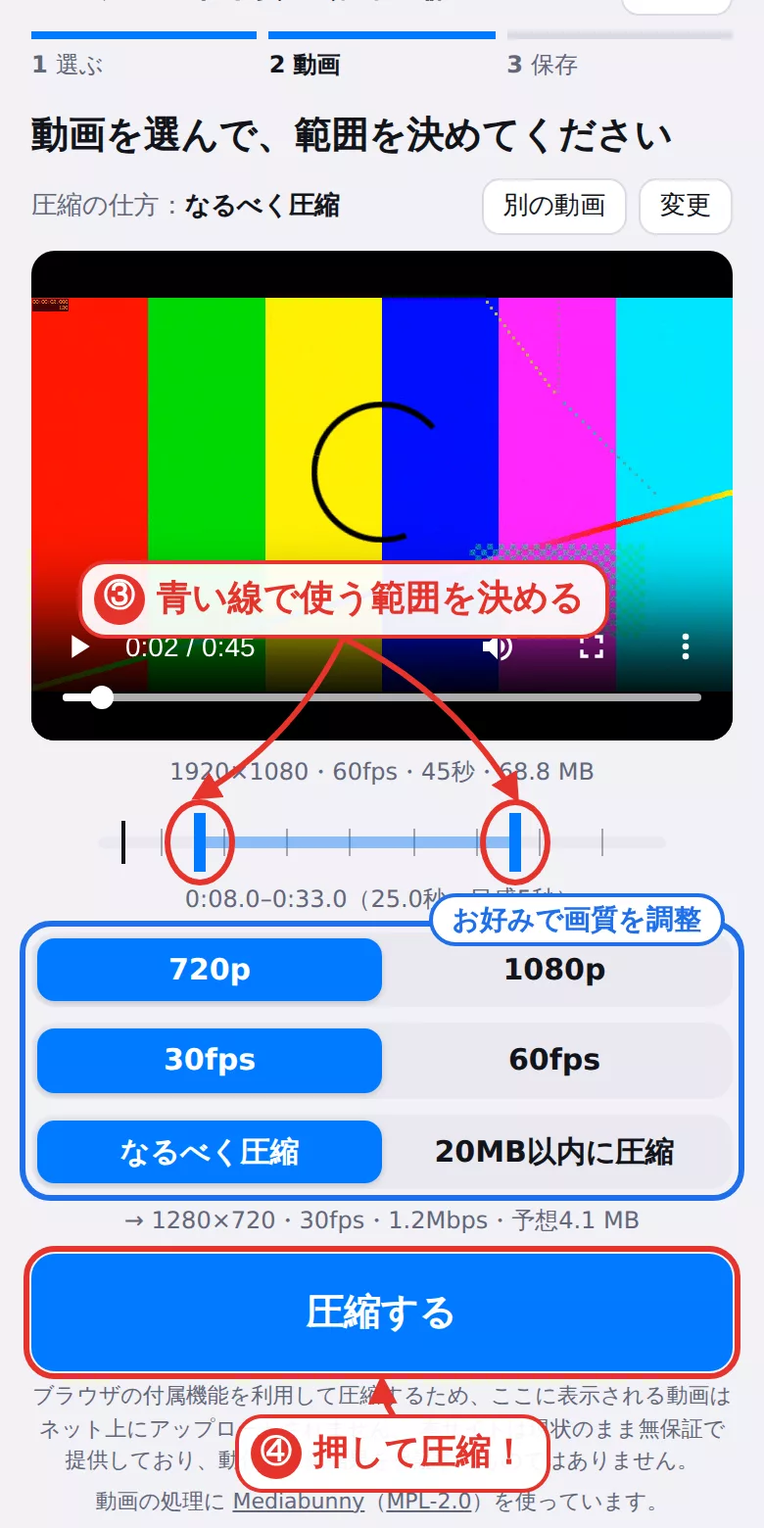
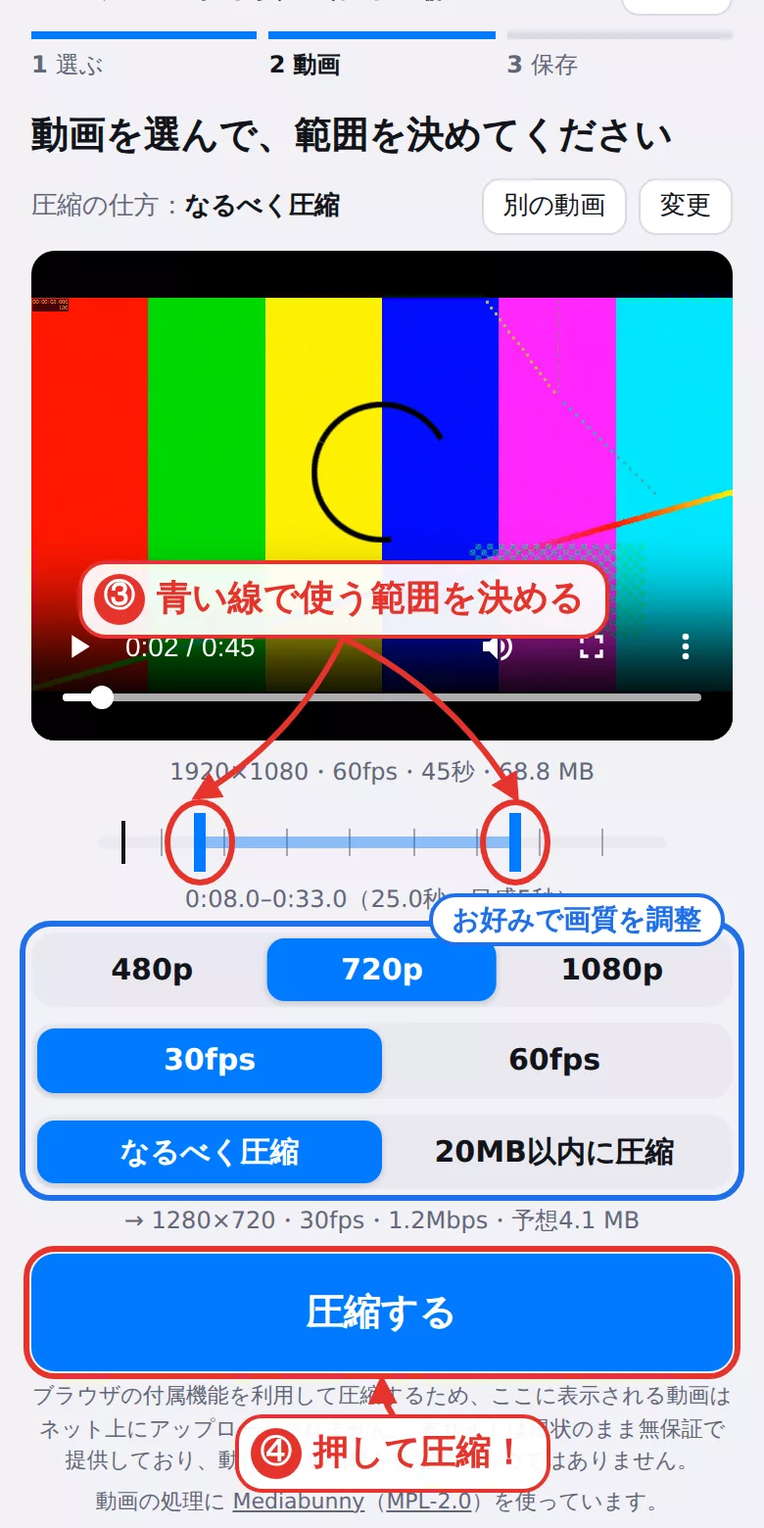
Bring back 480p in step 2; fold the 480p checks into the normal self-test
- Step 2 offers 480p / 720p / 1080p again (aspect kept, 480p floor is
  the 720p floor scaled by pixels).
- Self-test: drop the 3m30s measurement and the own-video 480p button.
  The auto test gains a short "1080p60 -> 480p30" case picked through
  the step-2 switch, and the own-video test adds a 480p run. Videos
  that are not 720p/1080p keep their own size on the new page, so the
  own-video test reports them as a note instead of a failure.

Claude-Session: https://claude.ai/code/session_01Kjx2uZRnB9w1XNEyRL87P8

Changed region(s): [[0.0308, 0.6154, 0.3692, 0.6769], [0.4308, 0.6154, 0.8615, 0.6769], [0.5538, 0.2769, 0.5846, 0.3077]]

diff --git a/public/selftest.js b/public/selftest.js
@@ -31,8 +31,7 @@
     vSmall: { label: '320×240・30fps・3秒', w: 320, h: 240, fps: 30, dur: 3, bitrate: 1e6 },
     vShort: { label: '1280×720・30fps・0.4秒', w: 1280, h: 720, fps: 30, dur: 0.4, bitrate: 6e6 },
     vLong: { label: '1280×720・30fps・1分', w: 1280, h: 720, fps: 30, dur: 60, bitrate: 2e6 },
-    vPre: { label: '1280×720・30fps・30秒', w: 1280, h: 720, fps: 30, dur: 30, bitrate: 6e6 },
-    v480: { label: '1280×720・30fps・3分30秒', w: 1280, h: 720, fps: 30, dur: 210, bitrate: 3e6 }
+    vPre: { label: '1280×720・30fps・30秒', w: 1280, h: 720, fps: 30, dur: 30, bitrate: 6e6 }
   };
   var made = {};   // 作った動画 { file, audio: 'AAC' | 'Opus' | null }
 
@@ -282,6 +281,20 @@
     a.value = String(start); a.dispatchEvent(new w.Event('input'));
   }
 
+  // 新しい画面で、読み込んだ動画の解像度が元のまま固定か（720p・1080p ではない動画）
+  function resFixedInApp() {
+    var seg = appDoc().getElementById('adjResSeg');
+    return !!seg && !!appWin().__compressor.state.meta && seg.classList.contains('hidden');
+  }
+  // 新しい画面の 2 で解像度を選ぶ（その動画だけ）。従来の画面にはないので false を返す
+  function setAdjRes(v) {
+    var el = appDoc().getElementById('adjRes' + v);
+    if (!el) return false;
+    el.checked = true;
+    el.dispatchEvent(new (appWin().Event)('change'));
+    return true;
+  }
+
   function runInApp(timeout) {
     var btn = appDoc().getElementById('runBtn');
     if (btn.disabled) return Promise.resolve();
@@ -330,6 +343,8 @@
     // 目標に収まるので、再エンコードせずに切り出す（範囲の始まりより前はファイルに入るが再生されないので、長さは範囲どおり）
     { title: 'トリミングのみ（再圧縮なし）', video: 'v720', query: 'res=720&mode=size&target=20', trim: [2, 5], expect: { w: 1280, h: 720, trimOnly: true, duration: 3 } },
     { title: '1080p60 → 720p30', video: 'v1080p60', query: 'res=720&mode=quality', expect: { w: 1280, h: 720, fps: 30, audio: true } },
+    // 480p は、新しい画面の 2 の解像度でだけ選べる（縦横比はそのまま、短い辺を480に）
+    { title: '1080p60 → 480p30（2 の解像度で選ぶ）', video: 'v1080p60', query: 'res=720&mode=quality', adjRes: '480', expect: { w: 854, h: 480, fps: 30, audio: true } },
     { title: '1080p60 → 1080p60（fps そのまま）', video: 'v1080p60', query: 'res=1080&mode=quality&fps=source', expect: { w: 1920, h: 1080, fps: 60, audio: true } },
     { title: '縦長 → 720p', video: 'vVert', query: 'res=720&mode=quality', expect: { w: 720, h: 1280, audio: true } },
     { title: '縦長 → 1080p', video: 'vVert', query: 'res=1080&mode=quality', expect: { w: 1080, h: 1920, audio: true } },
@@ -415,6 +430,11 @@
     // テスト用の動画の音声をアプリが読めないなら、アプリではなくテスト用の動画の問題
     var badSource = source.audio && s.meta.audio && s.meta.audio.canDecode === false;
     if (c.trim) setTrim(c.trim[0], c.trim[1]);
+    if (c.adjRes && !setAdjRes(c.adjRes)) {
+      r.status = 'warn';
+      r.detail = '従来の画面では ' + c.adjRes + 'p を選べない（試せなかった）';
+      return;
+    }
     if (c.compat) s.engine = 'compat';   // 互換モードを試す（画面からは選べない）
     var t0 = Date.now();
     if (!c.noRun) await runInApp(COMPRESS_TIMEOUT_MS);
@@ -451,7 +471,7 @@
   }
 
   function setBusy(busy) {
-    ['autoBtn', 'switchBtn', 'preBtn', 'easyBtn', 'res480Btn', 'file480Btn', 'fileBtn'].forEach(function (id) { $(id).disabled = busy; });
+    ['autoBtn', 'switchBtn', 'preBtn', 'easyBtn', 'fileBtn'].forEach(function (id) { $(id).disabled = busy; });
   }
 
   async function runAll(list, getSource) {
@@ -543,7 +563,8 @@
       var source = { file: file, audio: null, label: '手元の動画 ' + fmtMB(file.size) };
       var list = [
         { title: '手元の動画 → 720p', query: 'res=720&mode=quality', limit: 720 },
-        { title: '手元の動画 → 1080p', query: 'res=1080&mode=quality', limit: 1080 }
+        { title: '手元の動画 → 1080p', query: 'res=1080&mode=quality', limit: 1080 },
+        { title: '手元の動画 → 480p（2 の解像度で選ぶ）', query: 'res=720&mode=quality', limit: 480, adjRes: '480' }
       ];
       var rows = list.map(function (c) { return addResult(c.title); });
       for (var i = 0; i < list.length; i++) {
@@ -554,15 +575,24 @@
           if (!s) continue;
           var meta = s.meta;
           r.title = c.title + '（元: ' + meta.width + '×' + meta.height + '・' + (meta.codecString || meta.videoCodec) + (meta.hdr ? '・HDR' : '') + '・' + fmtMB(file.size) + '）';
+          // 新しい画面では、720p・1080p ではない動画は元の解像度のまま（解像度は選べない）
+          var fixed = resFixedInApp();
+          if (c.adjRes && !fixed && !setAdjRes(c.adjRes)) {
+            r.status = 'warn';
+            r.detail = '従来の画面では ' + c.adjRes + 'p を選べない（試せなかった）';
+            render();
+            continue;
+          }
           await runInApp(COMPRESS_TIMEOUT_MS);
           var problems = [], warns = [];
+          if (fixed) warns.push('720p・1080pではない動画なので、元の解像度のまま圧縮した（' + c.limit + 'p は試せなかった）');
           if (!s.out) problems.push('圧縮できない: ' + (appText('outWarn') || appText('planWarn')));
           else {
             var info = await inspect(s.out.blob);
             r.detail = describe(info);
             var srcShort = Math.min(meta.width, meta.height), outShort = Math.min(info.w, info.h);
             if ((meta.width >= meta.height) !== (info.w >= info.h)) problems.push('縦横が変わった');
-            if (outShort > Math.min(srcShort, c.limit) + 2) problems.push('解像度が大きすぎる');
+            if (outShort > Math.min(srcShort, fixed ? srcShort : c.limit) + 2) problems.push('解像度が大きすぎる');
             if (meta.audio && meta.audio.canDecode !== false && !info.audio && !s.out.original) warns.push('音声が消えた');
             if (usedCompat(s)) warns.push('互換モードで処理した');
           }
@@ -1143,176 +1173,6 @@
         render();
       }
       setStatus('新しい画面のテストが終わりました');
-    } finally {
-      render();
-      setBusy(false);
-    }
-  });
-
-  // ---------------------------------------------------------------- 480p の効果（3分30秒・手元の動画が20MBに収まるか）
-  // アプリは 480p を選べないので、アプリと同じエンコーダーの設定（ハードウェアの VBR → ハードウェアの CBR → ブラウザに任せる VBR、
-  // キーフレーム2秒ごと）で、このページから直接圧縮して比べる。縦横比はそのまま、短い辺を 720・480 にする（元より大きくはしない）。
-  // 60fps などの動画は 30fps にする（「なるべく圧縮」と同じ）。
-  // 480p の指定ビットレートは、720p の指定ビットレート（1200kbps）を画素数に比例させた値（1200 × 4/9 ≒ 533kbps）
-  var RES480_CASES = [
-    { title: '720p・30fps・1200kbps（今の「なるべく圧縮」）', short: 720, bps: 1200000 },
-    { title: '480p・30fps・533kbps', short: 480, bps: 533000 }
-  ];
-  function even(v) { return Math.max(2, Math.round(v / 2) * 2); }
-  async function pickEncoder(w, h, bps) {
-    var order = [['prefer-hardware', 'variable'], ['prefer-hardware', 'constant'], ['no-preference', 'variable']];
-    for (var i = 0; i < order.length; i++) {
-      var ok = await M.canEncodeVideo('avc', { width: w, height: h, frameRate: 30,
-        quality: new M.Quality({ bitrate: bps, bitrateMode: order[i][1] }), hardwareAcceleration: order[i][0] }).catch(function () { return false; });
-      if (ok) return { hw: order[i][0], mode: order[i][1] };
-    }
-    return null;
-  }
-  // 元の動画の大きさ・fps・音声
-  async function probeSource(file) {
-    var input = new M.Input({ source: new M.BlobSource(file), formats: [M.MP4, M.QTFF] });
-    try {
-      var v = await input.getPrimaryVideoTrack();
-      if (!v) throw new Error('映像がありません');
-      var a = await input.getPrimaryAudioTrack();
-      var fps = null;
-      try { fps = (await v.computePacketStats(120)).averagePacketRate; } catch (e) { fps = null; }
-      return { w: v.displayWidth, h: v.displayHeight, fps: fps, audio: a ? a.codec : null, duration: await input.computeDuration() };
-    } finally {
-      try { input.dispose(); } catch (e) { /* noop */ }
-    }
-  }
-  async function encodeDirect(file, src, c, onProgress) {
-    var scale = Math.min(1, c.short / Math.min(src.w, src.h));
-    var w = even(src.w * scale), h = even(src.h * scale);
-    var enc = await pickEncoder(w, h, c.bps);
-    if (!enc) throw new Error('この端末では ' + w + '×' + h + ' の H.264 で書き出せません');
-    var input = new M.Input({ source: new M.BlobSource(file), formats: [M.MP4, M.QTFF] });
-    var output = new M.Output({ format: new M.Mp4OutputFormat({ fastStart: 'in-memory' }), target: new M.BufferTarget() });
-    var aacOk = await M.canEncodeAudio('aac', { numberOfChannels: 2, sampleRate: 48000, bitrate: 128000 }).catch(function () { return false; });
-    // 音声はアプリと同じく、AAC ならそのまま、そうでなければ AAC（128kbps）にする（できなければ音声なし）
-    var audio = src.audio === 'aac' ? { codec: 'aac' } : src.audio && aacOk ? { codec: 'aac', quality: new M.Quality({ bitrate: 128000 }), forceTranscode: true } : { discard: true };
-    var video = { codec: 'avc', width: w, height: h, fit: 'fill', quality: new M.Quality({ bitrate: c.bps, bitrateMode: enc.mode }),
-      hardwareAcceleration: enc.hw, keyFrameInterval: 2, forceTranscode: true, allowTransformationMetadata: false };
-    if (src.fps && src.fps > 40) video.frameRate = src.fps / 2;
-    try {
-      var conv = await M.Conversion.init({ input: input, output: output, video: video, audio: audio });
-      if (!conv.isValid) throw new Error('変換できません');
-      conv.onProgress = onProgress;
-      var t0 = Date.now();
-      await conv.execute();
-      return { blob: new Blob([output.target.buffer], { type: 'video/mp4' }), enc: enc, sec: (Date.now() - t0) / 1000, w: w, h: h };
-    } finally {
-      try { input.dispose(); } catch (e) { /* noop */ }
-    }
-  }
-  // 書き出した動画の音声のビットレート（測れなければ 128kbps とみる）
-  async function audioRateOf(blob) {
-    var input = new M.Input({ source: new M.BlobSource(blob), formats: [M.MP4, M.QTFF] });
-    try {
-      var a = await input.getPrimaryAudioTrack();
-      var bps = a ? (await a.computePacketStats()).averageBitrate : 0;
-      return bps > 0 ? bps : 128000;
-    } catch (e) {
-      return 128000;
-    } finally {
-      try { input.dispose(); } catch (e) { /* noop */ }
-    }
-  }
-  // 720p と 480p で圧縮して比べる。label … 結果の見出しに付ける元の動画の説明
-  async function run480(file, label, prefix) {
-    var rows = RES480_CASES.map(function (c) { return addResult(prefix + c.title + '（元: ' + label + '）'); });
-    var summary = addResult(prefix + '480p・30fps で20MBに収まり、720p より小さくなる');
-    var sizes = [], src;
-    try {
-      src = await probeSource(file);
-    } catch (e) {
-      rows.concat(summary).forEach(function (r) { r.status = 'ng'; r.detail = '読み込めない: ' + errorDetail(e); });
-      render();
-      return;
-    }
-    for (var i = 0; i < RES480_CASES.length; i++) {
-      var c = RES480_CASES[i], r = rows[i];
-      r.status = 'run';
-      render();
-      try {
-        var res = await encodeDirect(file, src, c, function (p) { setStatus('480p の効果を測っています ' + (i + 1) + '/' + RES480_CASES.length + '：' + c.title + ' … ' + Math.round(p * 100) + '%'); });
-        var info = await inspect(res.blob);
-        var audioBps = info.audio ? await audioRateOf(res.blob) : 0;
-        var videoBps = Math.max(0, info.size * 8 / info.duration - audioBps);
-        sizes[i] = { size: info.size, videoBps: videoBps, audioBps: audioBps, duration: info.duration };
-        r.detail = describe(info) + '・映像 約' + Math.round(videoBps / 1000) + 'kbps（指定 ' + c.bps / 1000 + 'kbps）・' + res.sec.toFixed(1) + '秒で完了・' +
-          (res.enc.hw === 'prefer-hardware' ? 'ハードウェア' : 'ブラウザ任せ') + '/' + (res.enc.mode === 'variable' ? 'VBR' : 'CBR');
-        r.status = 'ok';
-        if (info.w !== res.w || info.h !== res.h) { r.status = 'ng'; r.detail = '解像度が ' + info.w + '×' + info.h + '（正しくは ' + res.w + '×' + res.h + '）（' + r.detail + '）'; }
-        else if (videoBps > c.bps * 1.3) { r.status = 'warn'; r.detail = 'エンコーダーが指定より大きく書き出した（' + r.detail + '）'; }
-      } catch (e) {
-        r.status = 'ng';
-        r.detail = errorDetail(e);
-      }
-      render();
-    }
-    if (sizes[0] && sizes[1]) {
-      var fits = sizes[1].size < 20 * MB;
-      var ratio = sizes[1].size / sizes[0].size;
-      var fitSec = function (x) { return Math.floor(20 * MB * 0.97 * 8 / (x.videoBps + x.audioBps)); };
-      summary.status = fits && ratio < 0.8 ? 'ok' : fits ? 'warn' : 'ng';
-      summary.detail = '480p ' + fmtMB(sizes[1].size) + (fits ? '（20MBに収まる）' : '（20MBを超えた）') + '・720p ' + fmtMB(sizes[0].size) +
-        '・720p の ' + Math.round(ratio * 100) + '%' + (ratio < 0.8 ? '' : '（480p にしてもあまり小さくならない）') +
-        '・この動画の中身なら 20MB に収まるのは 480p で約' + fitSec(sizes[1]) + '秒・720p で約' + fitSec(sizes[0]) + '秒まで';
-    } else {
-      summary.status = 'ng';
-      summary.detail = '比べられなかった（上の失敗を見てください）';
-    }
-    render();
-  }
-
-  $('res480Btn').addEventListener('click', async function () {
-    setBusy(true);
-    setNotice('');
-    try {
-      var source;
-      try {
-        source = await makeVideo('v480');
-      } catch (e) {
-        fail(addResult('480p の効果: テスト用の動画を作る'), errorDetail(e));
-        render();
-        return;
-      }
-      await run480(source.file, source.label + (source.audio ? '・' + source.audio : '・音声なし'), '480p の効果: ');
-      setStatus('480p の効果を測り終わりました');
-    } finally {
-      render();
-      setBusy(false);
-    }
-  });
-
-  // 手元の動画で 480p の効果を測る（Android では、選んだ動画をこのページで読み込んでから使う。「手元の動画でも試す」と同じ）
-  $('file480Btn').addEventListener('click', function () { $('file480').click(); });
-  $('file480').addEventListener('change', async function (ev) {
-    var picked = ev.target.files && ev.target.files[0];
-    ev.target.value = '';
-    if (!picked) return;
-    setBusy(true);
-    setNotice('');
-    try {
-      var file;
-      try {
-        setStatus('選んだ動画を読み込んでいます…');
-        file = new File([await picked.arrayBuffer()], picked.name, { type: picked.type || 'video/mp4', lastModified: picked.lastModified });
-      } catch (e) {
-        fail(addResult('手元の動画で 480p: 動画を読み込む'), '読み込めない: ' + errorDetail(e));
-        render();
-        return;
-      }
-      var label = '手元の動画 ' + fmtMB(file.size);
-      try {
-        var src = await probeSource(file);
-        label = '手元の動画 ' + src.w + '×' + src.h + '・' + (src.fps ? Math.round(src.fps) + 'fps' : 'fps不明') + '・' +
-          Math.round(src.duration) + '秒・' + fmtMB(file.size) + '・音声' + (src.audio ? '（' + src.audio + '）' : 'なし');
-      } catch (e) { /* 読めなければ run480 で失敗として書く */ }
-      await run480(file, label, '手元の動画で 480p: ');
-      setStatus('手元の動画で 480p の効果を測り終わりました');
     } finally {
       render();
       setBusy(false);

diff --git a/public/app.js b/public/app.js
@@ -57,7 +57,7 @@
   var KEYFRAME_INTERVAL = 2;             // 秒
   var MIN_TRIM_LENGTH = 0.5;             // 秒
   var AUDIO_DECODE_MAX_BYTES = 400 * MB;   // 互換モードで音声を扱うファイルサイズの上限
-  var APP_VERSION = '2026-10-02e';        // 診断情報に出す（どの版で起きたかを見分ける）
+  var APP_VERSION = '2026-10-02f';        // 診断情報に出す（どの版で起きたかを見分ける）
   var CANCELLED = 'cancelled';
   var SNAPSHOT_MAX_BYTES = 600 * MB;     // Android で動画をブラウザ内に写し取る上限（これより大きい動画は写さない）
   var STALLED = 'stalled';
@@ -123,7 +123,7 @@
   };
 
   // 3ステップの画面の 2 で変えた値（その動画だけ。新しい動画を選ぶ・圧縮の仕方を選び直す・設定のステップで設定を変えると戻す）
-  //   res     … 解像度（'1080' | '720'。null なら設定のまま）
+  //   res     … 解像度（'1080' | '720' | '480'。null なら設定のまま）
   //   halfFps … 60fpsの動画を30fpsにするか（null なら設定のまま）
   //   mode    … 圧縮方法（'quality'＝指定ビットレートでなるべく圧縮 | 'size'＝目標サイズに収まるなるべく高いビットレート。null なら設定のまま）
   var adjust = { res: null, halfFps: null, mode: null };
@@ -336,6 +336,8 @@
         '1080': readKbps(els.minRate1080, DEFAULT_MIN_KBPS['1080']) * 1000
       }
     };
+    // 480p（3ステップの画面の 2 だけで選べる）は、720p の下限を画素数に比例させる
+    s.minBitrate['480'] = Math.round(s.minBitrate['720'] * 4 / 9);
     if (!EASY) return s;
     // 3ステップの画面：720p・1080p ではない動画は元の解像度のまま。2 で変えた値を重ねる
     if (easyResFixed()) s.res = 'source';
@@ -881,7 +883,7 @@
   // ---------------------------------------------------------------- 圧縮プラン
   function resolutionCap(meta, res) {
     if (res === 'source') return 1;   // 元の解像度のまま
-    var limit = res === '1080' ? 1080 : 720;
+    var limit = res === '1080' ? 1080 : res === '480' ? 480 : 720;
     var shortSide = Math.min(meta.width, meta.height);
     return shortSide > limit ? limit / shortSide : 1;   // 拡大はしない
   }
@@ -3001,7 +3003,7 @@
   // ---------------------------------------------------------------- 3ステップの画面：2 の解像度・fps・圧縮方法（その動画だけ）
   // 720p・1080p ではない動画は、圧縮の仕方に関係なく元の解像度のまま（解像度は選べない）
   function easyResFixed() { return EASY && !!state.meta && !isStandardRes(state.meta); }
-  var ADJ_RES = ['720', '1080'];
+  var ADJ_RES = ['480', '720', '1080'];
   function updateAdjust(enabled) {
     if (!$('adjBox')) return;
     var hasFile = !!(state.file && state.meta);

diff --git a/tools/test/selftest.spec.js b/tools/test/selftest.spec.js
@@ -12,7 +12,7 @@ test('自動テストが最後まで動き、失敗がない', async ({ page }) 
   const failed = results.filter(r => r.status === 'ng');
   if (failed.length) console.log(await page.evaluate(() => window.__selftest.resultText()));
   expect(failed).toEqual([]);
-  expect(results.length).toBe(13);
+  expect(results.length).toBe(14);
   expect(await page.isDisabled('#copyBtn')).toBe(false);
 });
 
@@ -20,7 +20,7 @@ test('手元の動画でも試せる', async ({ page }) => {
   test.setTimeout(5 * 60 * 1000);
   await page.goto('/selftest.html');
   await page.setInputFiles('#file', require('./helpers').video('720p-60s.mp4'));
-  await page.waitForFunction(() => /^2\/2 件完了/.test(document.getElementById('summary').textContent), null, { timeout: 4 * 60 * 1000 });
+  await page.waitForFunction(() => /^3\/3 件完了/.test(document.getElementById('summary').textContent), null, { timeout: 4 * 60 * 1000 });
   const results = await page.evaluate(() => window.__selftest.results.map(r => ({ title: r.title, status: r.status, detail: r.detail })));
   expect(results.filter(r => r.status === 'ng')).toEqual([]);
   expect(results[0].title).toContain('1280×720');

diff --git a/public/selftest.html b/public/selftest.html
@@ -115,9 +115,6 @@
     <button id="switchBtn" type="button" class="btn sub">別のアプリへの切り替えを試す</button>
     <button id="preBtn" type="button" class="btn sub">予圧縮を試す</button>
     <button id="easyBtn" type="button" class="btn sub">新しい画面（3ステップ）を試す</button>
-    <button id="res480Btn" type="button" class="btn sub">480pの効果を試す（3分30秒）</button>
-    <button id="file480Btn" type="button" class="btn sub">手元の動画で480pを試す</button>
-    <input id="file480" type="file" accept="video/*" class="hidden">
     <button id="fileBtn" type="button" class="btn sub">手元の動画でも試す</button>
     <input id="file" type="file" accept="video/*" class="hidden">
     <p id="status"></p>

diff --git a/public/index.html b/public/index.html
@@ -150,7 +150,9 @@
     </section>
     <!-- この動画だけ、解像度・fps・圧縮方法を変える（保存しない） -->
     <div class="segs adj hidden" id="adjBox">
-      <div class="seg" id="adjResSeg" role="radiogroup" aria-label="解像度">
+      <div class="seg is-three" id="adjResSeg" role="radiogroup" aria-label="解像度">
+        <input type="radio" class="seg-input" name="adjRes" id="adjRes480" value="480">
+        <label class="seg-opt" for="adjRes480">480p</label>
         <input type="radio" class="seg-input" name="adjRes" id="adjRes720" value="720" checked>
         <label class="seg-opt" for="adjRes720">720p</label>
         <input type="radio" class="seg-input" name="adjRes" id="adjRes1080" value="1080">

diff --git a/public/sw.js b/public/sw.js
@@ -9,7 +9,7 @@
 'use strict';
 
 var CACHE_PREFIX = 'video-compressor-under20mb-';   // このアプリのキャッシュ名の頭（同じドメインの別アプリのキャッシュは消さない）
-var CACHE = CACHE_PREFIX + 'v186';
+var CACHE = CACHE_PREFIX + 'v187';
 var NETWORK_TIMEOUT_MS = 3000;   // ネット優先のとき、ネットの応答をこれだけ待ってからキャッシュを使う
 
 // Cloudflare Pages のプレビュー（<ブランチ名>.<プロジェクト名>.pages.dev）と手元の確認環境だけネット優先にする

diff --git a/README.md b/README.md
@@ -28,7 +28,7 @@
 2. **動画を選んでトリミング**：プレビュー・トリミング・予想を出し、「圧縮する」を目立たせる。
    トリミングの下で、**その動画だけ**解像度・fps・圧縮方法を変えられる（設定のステップと同じ見た目。動画を選ぶまでは出さない）。
    新しい動画を選ぶ・圧縮の仕方を選び直す・設定のステップで設定を変えると元に戻る（保存しない）
-   - 解像度：720p・1080p（元の動画より大きい解像度は選べない）
+   - 解像度：480p・720p・1080p（元の動画より大きい解像度は選べない。縦横比はそのまま、短い辺を480にする。480pの指定ビットレートは720pの値を画素数に比例させる（初期値で約533kbps））
    - fps：30fps・60fps（60fpsなどの動画のときだけ選べる）
    - 圧縮方法：なるべく圧縮（指定ビットレート）・◯MB以内に圧縮（目標サイズに収まるなるべく高いビットレート）
    予圧縮は、変えた設定でやり直す。予圧縮は従来の画面と同じで、押せばすぐ出せるときは「◯MBで即出力するよ」を出す（画質優先では、予圧縮が20MBの95〜100%ならそのまま使う）。20MB以下の動画は「圧縮せずに、このまま共有・保存へ」で進める
@@ -450,7 +450,7 @@ npm test -- strip.spec.js   # 一部だけ実行するとき
 iPhone・Android の実機では、`https://maka-u20mb.pages.dev/selftest.html` を開くと、その端末で圧縮を試せます（どこからもリンクしておらず、検索にも出ません）。
 
 - **自動テストを始める**：テスト用の動画（720p・1080p60・縦長・小さい・とても短い）をその場で作り、本番と同じ画面を iframe で開いて、
-  解像度・fps・音声（書き出した音声を読めるかも）・目標サイズ・元のまま渡す・トリミング・トリミングのみ（再圧縮なし）・互換モードの13件を圧縮して判定します。
+  解像度・fps・音声（書き出した音声を読めるかも）・目標サイズ・元のまま渡す・トリミング・トリミングのみ（再圧縮なし）・互換モード・480p（新しい画面の 2 の解像度で選ぶ）の14件を圧縮して判定します。
 - **別のアプリへの切り替えを試す**：1分の動画を圧縮している間に、手でほかのアプリに切り替えて戻り、最後まで圧縮できるかを判定します。
 - **予圧縮を試す**：720p・30秒のテスト用の動画を作り、予圧縮まわりを6件判定します。読み込んだら全体を予圧縮して予想（「予圧縮済み」・即出力の大きさ）を出すこと、済んでから押すと範囲を切り出してすぐ結果にすること（予想と実際の大きさの差も出す）、途中で押しても範囲の始まりを越えていれば範囲の終わりまで続けて使うこと、範囲の始まりまで届いていなければ使わずに範囲だけを圧縮すること、「◯MB以内」でも目標の95〜100%なら使うこと、設定（指定ビットレート）を変えたらやり直すこと。端末が速く、途中で押す場面を作れなかったときは「注意」になります。画面の入力欄は `change` を送らずに変えるので、保存してある設定は変わりません。
 - **新しい画面（3ステップ）を試す**：設定なしでアプリの画面を開き、画面のボタンを押してステップを進め、9件判定します。
@@ -458,9 +458,7 @@ iPhone・Android の実機では、`https://maka-u20mb.pages.dev/selftest.html` 
   「画質優先（20MB以内）」で20MB以下の動画は圧縮せずに 3 へ進め、範囲を決めると元の画質・fps のまま切り出すこと、
   「詳しく設定する」で設定のステップが入り「変更」で戻れること、URL に設定があれば（ショートカット）2 から始まりその設定で圧縮すること、
   圧縮中の「キャンセル」で 2 に戻ること、予圧縮が済むと 2 に「◯MBで即出力」が出て予圧縮から切り出すこと、最後に保存してある設定が変わっていないこと。
-- **480pの効果を試す（3分30秒）**：720p・30fps・3分30秒のテスト用の動画を作り、アプリと同じエンコーダーの設定で「720p・1200kbps」と「480p・533kbps」（720pの指定ビットレートを画素数に比例させた値）に圧縮して、大きさと実際の映像ビットレートを比べます（アプリは480pを選べないので、このページから直接圧縮します）。480pで20MBに収まり、720pの80%未満になれば成功です。
-- **手元の動画で480pを試す**：選んだ動画を、同じように720p（1200kbps）と480p（533kbps）で圧縮して比べます（縦横比はそのまま短い辺を720・480に。60fpsなどは30fpsに。音声はAACならそのまま、それ以外はAAC 128kbps）。その動画の中身なら20MBに何秒まで収まるかも出します。
-- **手元の動画でも試す**：iPhone で撮った HEVC・HDR・縦向きの動画など、選んだ動画を 720p と 1080p で圧縮して判定します。
+- **手元の動画でも試す**：iPhone で撮った HEVC・HDR・縦向きの動画など、選んだ動画を 720p・1080p・480p（新しい画面の 2 の解像度で選ぶ）で圧縮して判定します（720p・1080p ではない動画は、新しい画面では元の解像度のまま圧縮するので「注意」にします）。
 - 「新しい画面を試す」以外は、アプリの画面（3ステップ）を URL の設定つきで開きます（「詳しく設定する」で 2 から始まる）。
   `selftest.html?page=old` で開くと、従来の画面（`old.html`）で試します。
 - 結果は「結果をコピー」で、失敗した項目の診断情報ごとコピーできます。
